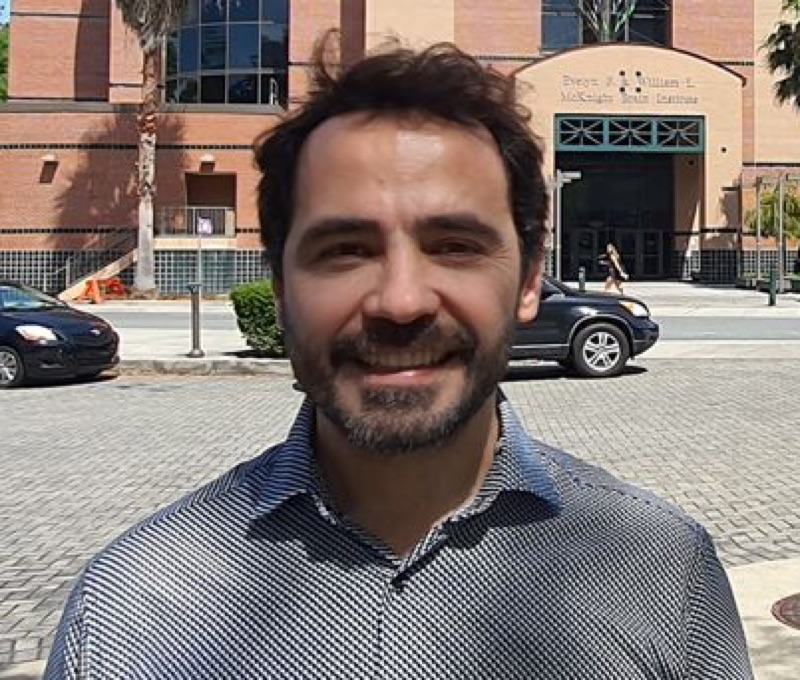
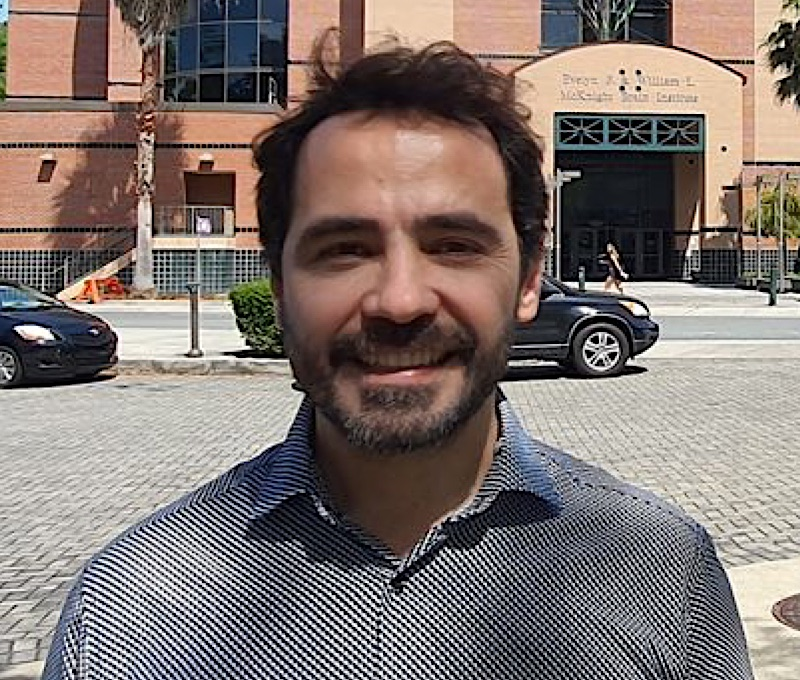
Fotos de 5 professores com nitidez leve

diff --git a/site/js/content.js b/site/js/content.js
@@ -21,7 +21,7 @@ window.ACADEMIA = {
       registry: "CRM-MG 50.070",
       area: "Geriatria",
       modules: [5],
-      photo: "img/professores/camila-sampaio.jpg",
+      photo: "img/professores/camila-sampaio.jpg?v=nit1",
       instagram: "dra.camilasamptos",
       published: true,
       bio: "Médica de família e comunidade da prefeitura de Nova Lima desde 2011, Geriatria Feluma 2013, Endocrinologia IPEMED 2017, Cannabis Medicinal SBEC 2024."
@@ -71,7 +71,7 @@ window.ACADEMIA = {
       registry: "",
       area: "Neurocientista, PhD.",
       modules: [2],
-      photo: "img/professores/antonio-oliveira.jpg",
+      photo: "img/professores/antonio-oliveira.jpg?v=nit1",
       instagram: "",
       published: true,
       bio: "Professor Titular do Departamento de Farmacologia da UFMG. Farmacêutico e mestre em Farmacologia pela UFMG, doutorado em Neuroquímica pela Universidade de Freiburg (Alemanha) e pós-doutorado em Neurociências pela Universidade da Flórida (EUA) e pela UFMG."
@@ -81,7 +81,7 @@ window.ACADEMIA = {
       registry: "CRM-MG 48.288",
       area: "Médico de família e comunidade",
       modules: [3],
-      photo: "img/professores/bruno-amato.jpg",
+      photo: "img/professores/bruno-amato.jpg?v=nit1",
       instagram: "",
       published: true,
       bio: "Médico de família e Comunidade com pós graduação em psiquiatria. Docente no curso de Medicina da UFSJ desde 2015. Foi professor do curso de pós graduação em saúde mental do Hospital Albert Einstein de São Paulo em 2024 e 2025."
@@ -91,7 +91,7 @@ window.ACADEMIA = {
       registry: "OAB-MG 200.927",
       area: "Advogado",
       modules: [1],
-      photo: "img/professores/fernando-avila.jpg",
+      photo: "img/professores/fernando-avila.jpg?v=nit1",
       instagram: "fernando_c_avila",
       published: true,
       bio: "Advogado, mestre em Direito e presidente da Comissão de Cannabis Medicinal da OAB/MG. Consultor jurídico da Associação Angatu, atua na defesa do acesso à cannabis medicinal, na regulamentação do setor e na segurança jurídica das associações e dos pacientes."
@@ -101,7 +101,7 @@ window.ACADEMIA = {
       registry: "CRM-MG 39.103",
       area: "Clínica Médica",
       modules: [7],
-      photo: "img/professores/alexandre-versiani.jpg",
+      photo: "img/professores/alexandre-versiani.jpg?v=nit1",
       instagram: "alexandreversiani",
       published: true,
       bio: "Alexandre Silva Versiani é médico, graduado pela Universidade Estadual de Montes Claros (UNIMONTES). Possui certificação internacional em Cannabis Medicinal pela Wecann Academy e é membro da Associação Médica Brasileira de Endocanabinologia. Atualmente coordena o Núcleo de Cannabis Medicinal e Psicologia da Dor do Hospital Aroldo Tourinho."

diff --git a/site/index.html b/site/index.html
@@ -10,7 +10,7 @@
 <link rel="apple-touch-icon" href="img/apple-touch-icon.png">
 <link rel="stylesheet" href="../design-system/angatu-tokens.css">
 <link rel="stylesheet" href="../design-system/angatu-components.css">
-<link rel="stylesheet" href="css/academia.css?v=23">
+<link rel="stylesheet" href="css/academia.css?v=24">
 </head>
 <body>
 
@@ -320,7 +320,7 @@
   </div>
 </footer>
 
-<script src="js/content.js?v=23"></script>
-<script src="js/main.js?v=23"></script>
+<script src="js/content.js?v=24"></script>
+<script src="js/main.js?v=24"></script>
 </body>
 </html>
